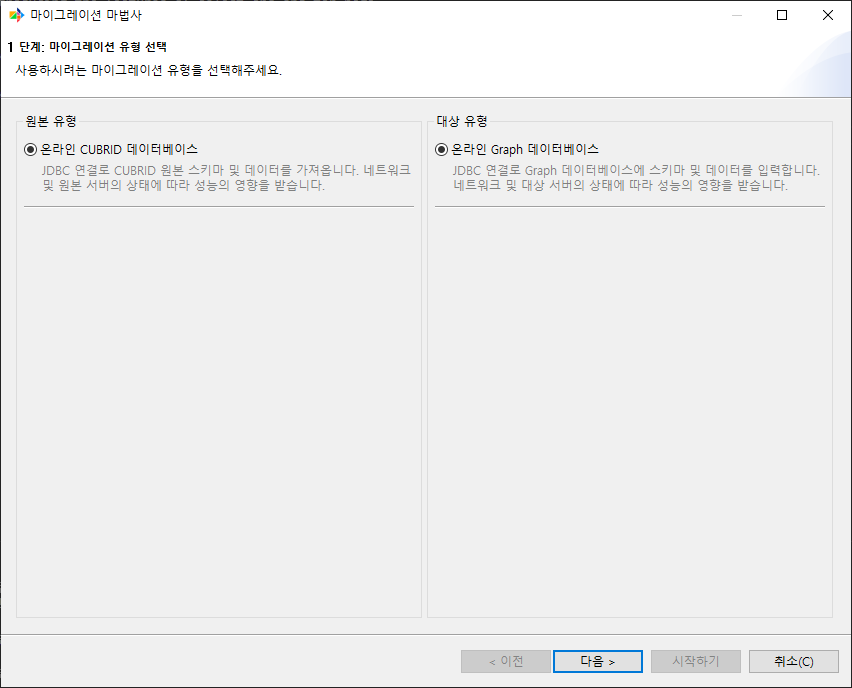
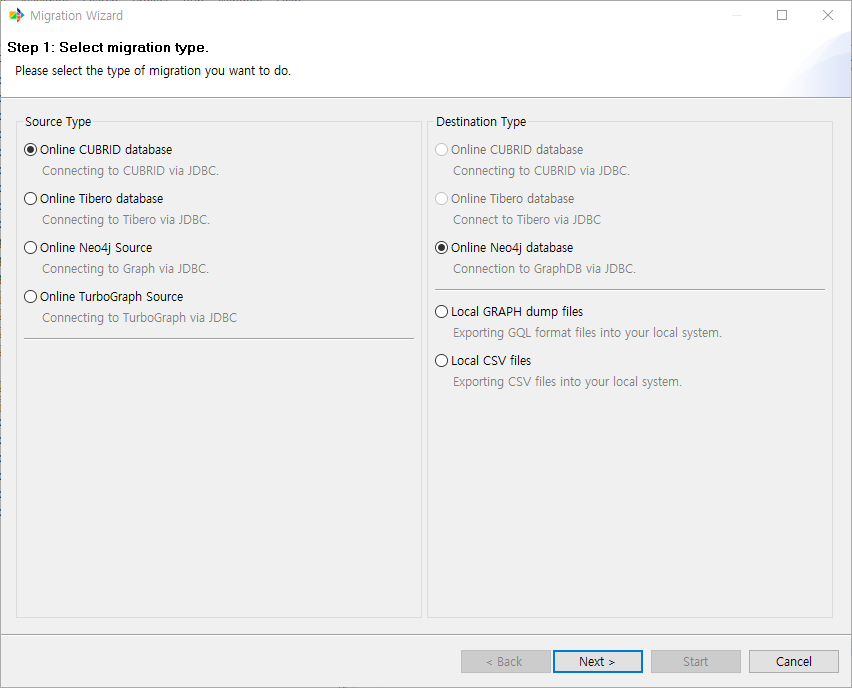
[GT-165] graph mapping page에 대한 수정 사항 추가

diff --git a/MiT_Manual/ko/getting_start/R2G/4.object_mapping.rst b/MiT_Manual/ko/getting_start/R2G/4.object_mapping.rst
@@ -55,6 +55,27 @@ GDB column의 특정 데이터 타입은 변경이 가능하다.
 
 현재는 자기 자신의 타입과, string으로의 타입 변경만을 지원한다.
 
+========================
+오브젝트 이름 변경 기능
+========================
+
+vertex 또는 edge의 이름을 수정할 수 있다.
+
+방법은 아래와 같다
+
+1. 이름을 수정하고 싶은 오브젝트를 우클릭한 후 Change Name을 선택한다
+
+.. image:: ./image/change_name.png
+
+2. 원하는 이름을 입력하고 확인을 누른다
+
+.. image:: ./image/change_name_dialog.png
+
+3. 수정된 것을 확인한다.
+
+.. image:: ./image/change_name_complete.png
+
+
 ==============================
 사용자 지정 edge 추가 기능
 ==============================
@@ -82,3 +103,23 @@ GDB column의 특정 데이터 타입은 변경이 가능하다.
 5. 사용자 지정 edge가 생성된 것을 확인 할 수 있다.
 
 .. image:: ./image/add_edge_step5.png
+
+========================
+redo, undo 기능
+========================
+
+오브젝트 이름 변경, edge 추가 등의 기능을 수행한 뒤 취소하고 싶거나 다시 수행하고 싶은 경우 redo, undo 기능을 사용할 수 있다
+
+방법은 아래와 같다
+
+1. redo
+
+1-1. 무언가 수정을 진행한 후 아무곳이나 선택 후 우클릭한다.
+
+1-2. redo 버튼을 선택하면 가장 최근에 시행한 명령이 취소된다.
+
+2. undo
+
+2-1. 무언가 명령을 취소한 후 아무곳이나 선택 후 우클릭한다.
+
+2-2. undo 버튼을 선택하면 취소됐던 명령이 다시 실행된다.

diff --git a/MiT_Manual/ko/getting_start/R2G/1.select_src_tar.rst b/MiT_Manual/ko/getting_start/R2G/1.select_src_tar.rst
@@ -13,14 +13,16 @@
 
 이관할 원본 DB와 대상 DB를 선택하는 페이지이다.
 
+RDB(CUBRID, Tibero) to GDB(Neo4j, Turbograph), GDB(Neo4j, Turbograph) to RDB(CUBRID, Tibero) 총 2가지 타입의 이관이 지원된다
+
 ==========
 원본 유형
 ==========
 
-데이터를 추출할 DB를 선택한다. 현재 CUBRID만 지원하며 추후 GDB->RDB 이관 기능이 추가되면 GDB가 추가될 예정이다
+데이터를 추출할 DB를 선택한다. CUBRID, Tibero, Neo4j, Turbograph가 지원된다
 
 ==========
 대상 유형
 ==========
 
-데이터를 이관할 대상 DB를 선택한다. 현재 GDB(NEO4J)만 지원하며 추후 GDB->RDB 이관 기능이 추가되면 RDB(CUBIRD)가 추가될 예정이다
+데이터를 이관할 대상 DB를 선택한다. online으로 CUBRID, Tibero, Neo4j, Turbograph를 선택할 수 있고 추가로 RDB to csv를 지원한다.

diff --git a/MiT_Manual/ko/getting_start/R2G/3.select_tar_conn.rst b/MiT_Manual/ko/getting_start/R2G/3.select_tar_conn.rst
@@ -25,7 +25,7 @@ connection을 생성한다
 데이터베이스 종류
 ------------------
 
-현재 선택된 데이터베이스의 타입을 나타낸다. 현재 대상 DB는 NEO4J를 사용한다.
+현재 선택된 데이터베이스의 타입을 나타낸다.
 
 ---------------------
 JDBC 드라이버 선택
@@ -49,7 +49,7 @@ JDBC 드라이버 선택
 연결 포트
 ------------------------
 
-DB의 포트 번호를 입력한다. 기본값은 NEO4J의 기본 포트인 7687으로 되어있다.
+DB의 포트 번호를 입력한다. 기본값은 각 DB의 기본 JDBC 포트값으로 설정 되어있다
 
 ------------------------
 데이터베이스 이름

diff --git a/MiT_Manual/ko/start.rst b/MiT_Manual/ko/start.rst
@@ -47,6 +47,11 @@ Online CUBRID database
 
 target을 CUBRID로 설정한다. 해당 옵션은 source가 GraphDB일 때만 지원한다.
 
+Online Tibero database
+-------------------------
+
+target을 Tibero로 설정한다. 해당 옵션은 source가 GraphDB일 때만 지원한다.
+
 Online Neo4j database
 ------------------------
 
@@ -161,4 +166,3 @@ JDBC URL을 커스텀 할 수 있다. 만약 DB연결시 parameter가 필요할 
     getting_start/2.RDB_to_dump.rst
     getting_start/3.RDB_to_csv.rst
     getting_start/4.CLI.rst
-    getting_start/5.CDC.rst

diff --git a/MiT_Manual/ko/getting_start/R2G/2.select_src_conn.rst b/MiT_Manual/ko/getting_start/R2G/2.select_src_conn.rst
@@ -24,7 +24,7 @@ connection을 생성한다
 데이터베이스 종류
 ------------------
 
-현재 선택된 데이터베이스의 타입을 나타낸다. 현재 원본 DB는 CUBRID가 유일하다.
+현재 선택된 데이터베이스의 타입을 나타낸다.
 
 ---------------------
 JDBC 드라이버 선택
